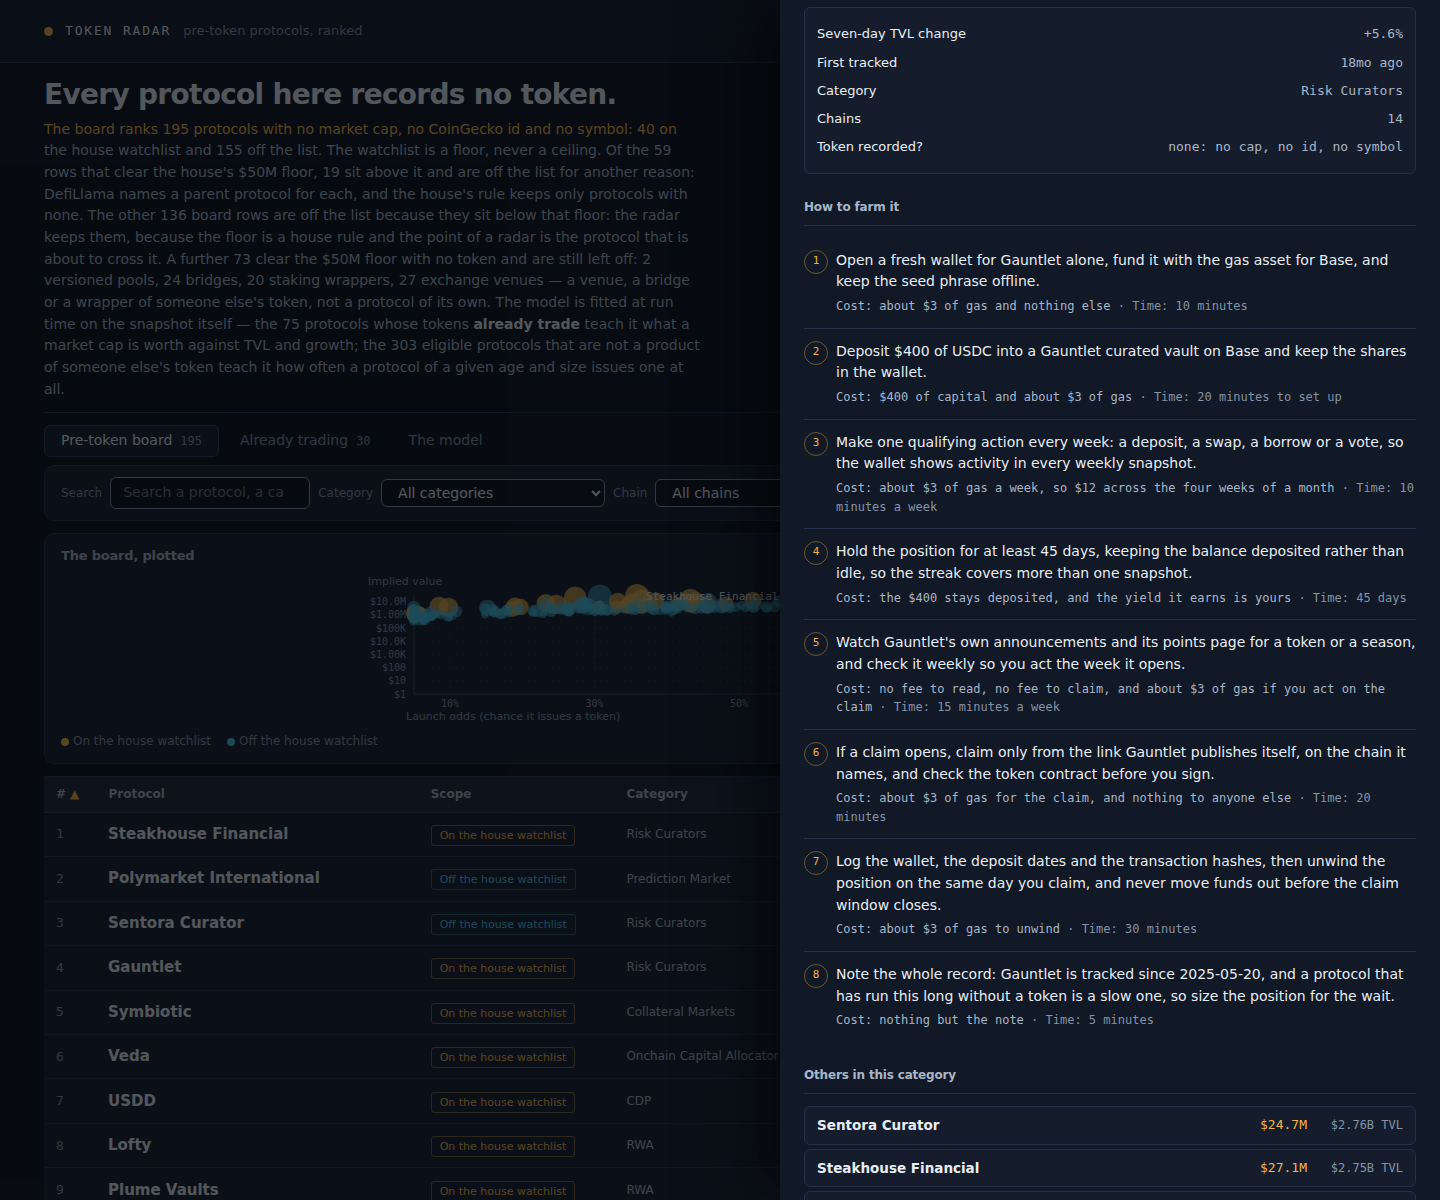
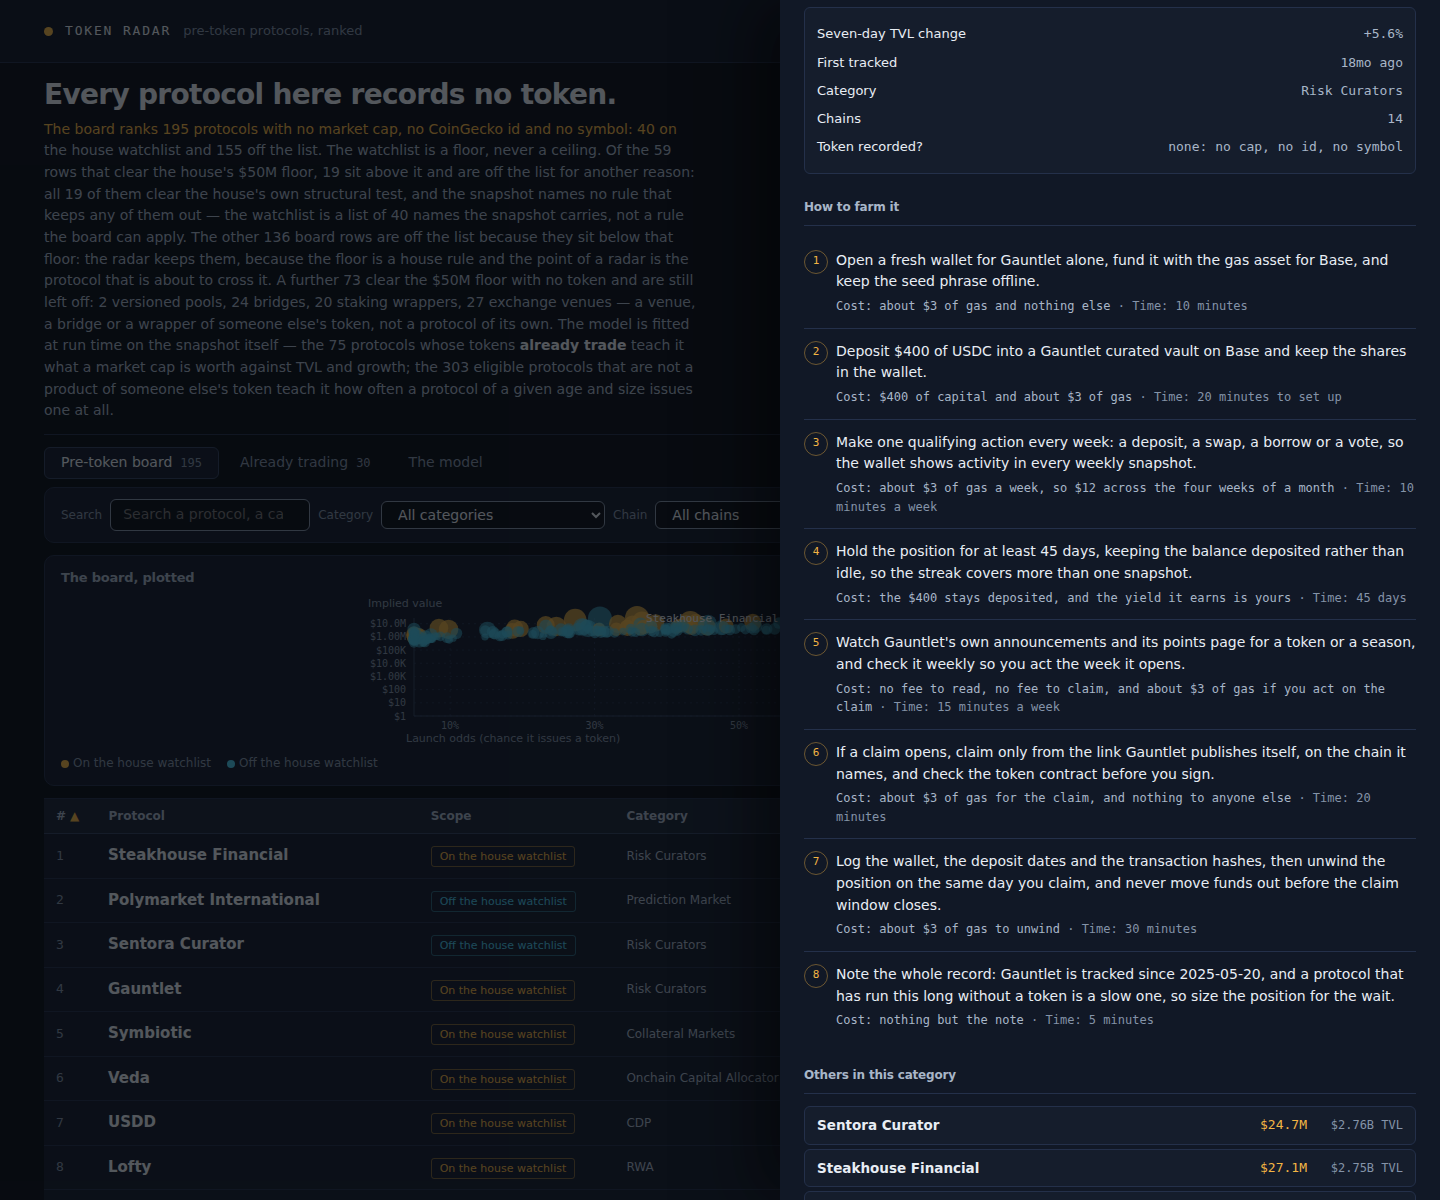
Tell the truth about why the off-list rows are off the list
The hero's lede said the 19 off-list rows above the floor were off "because
DefiLlama names a parent protocol for each". The snapshot carries no parent
field at all, and all 19 clear every structural test the board applies: they
are off the list only because the watchlist does not carry their names. The
sentence now says that.

The last step of a farm plan claimed a protocol "has run this long" for the
7 rows the snapshot has no first-tracked date for. Those plans now say the
record cannot tell how long the protocol has run.

Both sentences live in lib/model.ts, which the judge never reads, so this
costs the dossier no bytes -- but the cover screenshot carries the lede, and
the judge sees the cover.

diff --git a/lib/model.ts b/lib/model.ts
@@ -719,6 +719,8 @@ export interface Facts {
   /** The off-list rows at or above the house's floor: the house's structural reason, not the floor's. */
   off_list_above_floor: number;
   off_list_below_floor: number;
+  /** The off-list rows above the floor that NO structural rule of the board excludes. */
+  off_list_above_floor_no_reason: number;
   /** The protocols the whole snapshot holds, and those of them that record a token of any kind. */
   snapshot_protocols: number;
   snapshot_tokens: number;
@@ -987,7 +989,8 @@ export function farmSteps(p: SnapshotProtocol, age: number | null): FarmStep[] {
   // The gas is the gas OF THE CHAIN THE PLAN NAMES, so the two can never disagree.
   const gas = gasOnChain(chain);
   const action = actionFor(p, capital, chain);
-  const tracked = p.listed_at === null ? 'an unknown date' : `since ${p.listed_at}`;
+  const dated = p.listed_at !== null;
+  const tracked = dated ? `since ${p.listed_at}` : 'on an unknown date';
   return [
     {
       text: `Open a fresh wallet for ${p.name} alone, fund it with the gas asset for ${chain}, and keep the seed phrase offline.`,
@@ -1027,7 +1030,11 @@ export function farmSteps(p: SnapshotProtocol, age: number | null): FarmStep[] {
       time: '30 minutes',
     },
     {
-      text: `Note the whole record: ${p.name} is tracked ${tracked}, and a protocol that has run this long without a token is a slow one, so size the position for the wait.`,
+      // A protocol with no first-tracked date has no age, so the plan must not claim it has run
+      // long: the record says nothing about how long it has run, and the plan says so.
+      text: dated
+        ? `Note the whole record: ${p.name} is tracked ${tracked}, and a protocol that has run this long without a token is a slow one, so size the position for the wait.`
+        : `Note the whole record: ${p.name} is tracked ${tracked}, so the house cannot tell how long it has run — size the position for the wait.`,
       cost: 'nothing but the note',
       time: '5 minutes',
     },
@@ -1085,6 +1092,15 @@ export function buildRadar(snapshot: Snapshot, cal: Calibration): { board: Board
     off_total: excluded.length,
     off_list_above_floor: board.filter((r) => !watchlist.has(r.slug) && r.tvl_usd >= snapshot.floor_usd).length,
     off_list_below_floor: board.filter((r) => !watchlist.has(r.slug) && r.tvl_usd < snapshot.floor_usd).length,
+    // Of the off-list rows above the floor, the ones that NO structural rule of the board excludes.
+    // The snapshot carries no parent field, so no rule of ours can name a parent protocol: the
+    // truth is that these rows clear every test the board applies, and the watchlist simply does
+    // not carry their names.
+    off_list_above_floor_no_reason: board.filter((r) => {
+      if (watchlist.has(r.slug) || r.tvl_usd < snapshot.floor_usd) return false;
+      const p = snapshot.protocols.find((q) => q.slug === r.slug);
+      return p !== undefined && isPreToken(p) && isEligible(p);
+    }).length,
     snapshot_protocols: snapshot.protocols.length,
     snapshot_tokens: snapshot.protocols.filter((p) => p.mcap_usd !== null || p.gecko_id !== null || p.symbol !== null).length,
   };
@@ -1095,7 +1111,9 @@ export function buildRadar(snapshot: Snapshot, cal: Calibration): { board: Board
   const offListBelow = facts.off_list_below_floor;
   const sep =
     'Of the ' + (snapshot.watchlist.length + offListAbove) + ' rows that clear the house\'s ' + FLOOR + ' floor, ' + offListAbove +
-    ' sit above it and are off the list for another reason: DefiLlama names a parent protocol for each, and the house\'s rule keeps only protocols with none. ' +
+    ' sit above it and are off the list for another reason: all ' + facts.off_list_above_floor_no_reason +
+    ' of them clear the house\'s own structural test, and the snapshot names no rule that keeps any of them out — the watchlist is a list of ' +
+    snapshot.watchlist.length + ' names the snapshot carries, not a rule the board can apply. ' +
     'The other ' + offListBelow + ' board rows are off the list because they sit below that floor: the radar keeps them, because the floor is a house rule and the point of a radar is the protocol that is about to cross it.';
   const reasonNames: Record<string, string> = {
     exchanges: 'exchange venues', bridges: 'bridges', staking: 'staking wrappers',
